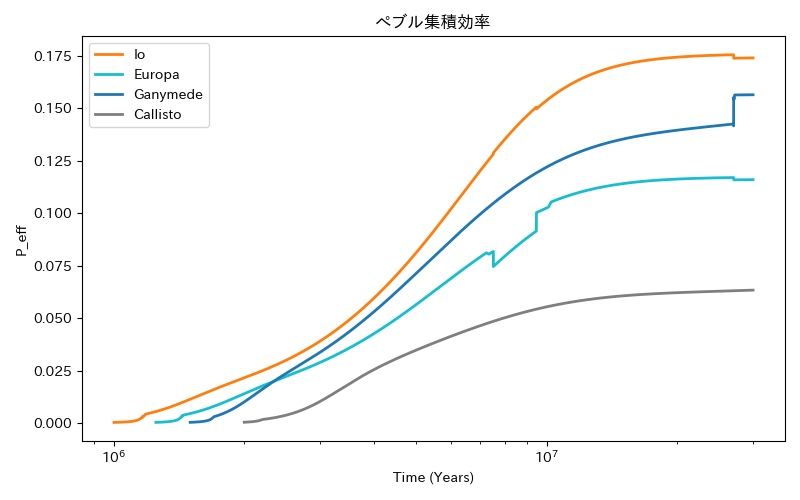
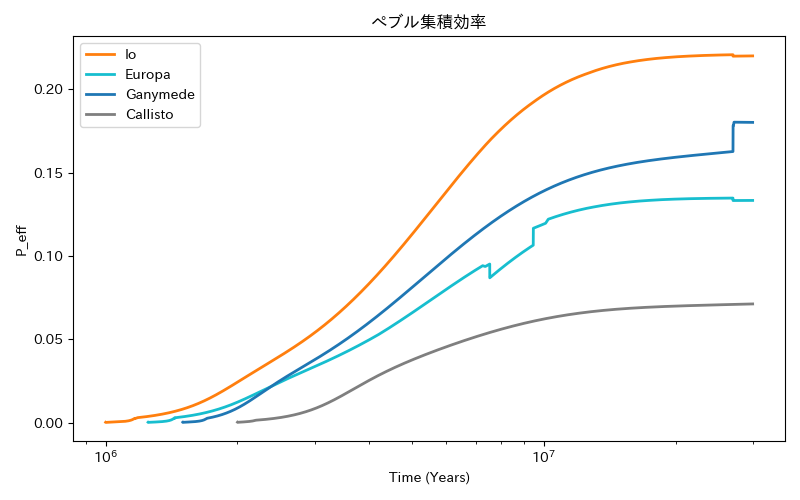
ぺブルのストークス数の式を近似式から微小軌道での半径増加分を利用した

diff --git a/gallilean_central_flax.py b/gallilean_central_flax.py
@@ -28,6 +28,7 @@ L_sun_early = 0.70 * L_sun # 形成初期の太陽光度 (現在の75%)
 T_bg = (L_sun_early / (16.0 * np.pi * a_J**2 * sigma_sb))**0.25 # 太陽輻射による木星軌道付近の平衡温度 
 rho_ice = 1.4              # 氷の密度 (g/cm^3)
 rho_rock = 3.0             # 岩石の密度 (g/cm^3)
+rho_int= 1.0e-3                # ふわふわのダストの密度 (g/cm^3)
 
 # ==========================================
 # 事前準備：物理量を計算する関数群
@@ -216,58 +217,78 @@ def calculate_disk_mass(M_cp_kg, M_dot_g_kg_s, alpha, r_gg, L_cp):
     return mass_g / M_J
 
 
-# ぺブルのストークス数 (St_p) を計算する関数（破壊効果を追加）
-def calculate_st_p(p, q, M_dot_p, M_dot_g, alpha, T_d, M_cp_kg, r, eta):
-    # 0割り防止
-    if M_dot_g <= 0: return 1e-10
+# ---------------------------------------------------------
+# 【変更】ペブルのバトンパス方式に対応したストークス数計算関数
+# ---------------------------------------------------------
+def calculate_st_p_integrated_relay(M_cp_kg, M_dot_g_kg_s, alpha, r_gg, L_cp, local_M_dot_p, target_r, start_r, start_R_d, rho_int=0.1):
+    if M_dot_g_kg_s <= 1e-15 or local_M_dot_p <= 1e-15:
+        return 1e-10, start_R_d
 
-    # 1. 動径移動による限界 (Drift-limited)
-    M_cp_MJ = M_cp_kg / M_J
-    r_RJ = r / R_J
+    # 距離が近い（あるいは追い越している）場合は積分せずそのまま返す
+    if target_r >= start_r:
+        R_d = start_R_d
+    else:
+        # 衛星と衛星の間の短い距離だけを積分するので、ステップ数は 10 回
+        N_steps = 10 
+        r_grid = np.logspace(np.log10(start_r), np.log10(target_r), N_steps)
+        R_d = start_R_d
+        
+        for i in range(N_steps - 1):
+            r_curr = r_grid[i]
+            r_next = r_grid[i+1]
+            dr = r_next - r_curr
+            
+            p, q = calculate_p_q(M_cp_kg, M_dot_g_kg_s, r_curr, alpha, r_gg, L_cp)
+            T_d, Sigma_g = calculate_disk_structure(M_cp_kg, M_dot_g_kg_s, r_curr, alpha, r_gg, L_cp, q_guess=q)
+            if np.isnan(T_d): continue
+                
+            v_K = np.sqrt(G * M_cp_kg / r_curr)
+            Omega_K = v_K / r_curr
+            c_s = np.sqrt((k_B * T_d) / m_g)
+            H_g = c_s / Omega_K
+            eta, _ = calculate_eta(M_cp_kg, M_dot_g_kg_s, r_curr, alpha, r_gg, L_cp)
+            eta_safe = max(abs(eta), 1e-15)
+            
+            term_num = local_M_dot_p * (Sigma_g**0.25)
+            term_den = ( (2.0**(39.0/8.0)) * (np.pi**(13.0/8.0)) * (alpha**0.5) * 
+                         (rho_int**1.25) * (eta_safe**0.75) * v_K * (H_g**1.25) * (r_curr**0.75) )
+            F_r = term_num / term_den
+            
+            dR_d_54 = - (5.0 / 4.0) * F_r * dr
+            R_d_54_next = (R_d**1.25) + dR_d_54
+            
+            if R_d_54_next > 0:
+                R_d = R_d_54_next**(0.8)
 
-    coef = 0.23
-    term_p_q1 = (2.0 / (3.0 + 2.0 * p + q))**(4/5)
-    term_p_q2 = (abs(10.0 / (18.0 - 13.0 * q)))**(2/5)
-
-    M_dot_ratio = M_dot_p / M_dot_g
-    term_mdot = (M_dot_ratio / 0.003)**(2/5)
-    term_alpha = (alpha / 1e-4)**(1/5)
-    term_td = (T_d / 160.0)**(-2/5)
-    term_mcp = (M_cp_MJ / 1.0)**(2/5)
-    term_r = (r_RJ / 10.0)**(-2/5)
-
-    st_p_drift = coef * term_p_q1 * term_p_q2 * term_mdot * term_alpha * term_td * term_mcp * term_r
-
-    # 2. 衝突破壊による限界 (Fragmentation-limited) - 論文の式(14)
+    # --- ストークス数の計算 ---
+    p, q = calculate_p_q(M_cp_kg, M_dot_g_kg_s, target_r, alpha, r_gg, L_cp)
+    T_d, Sigma_g = calculate_disk_structure(M_cp_kg, M_dot_g_kg_s, target_r, alpha, r_gg, L_cp, q_guess=q)
+    v_K = np.sqrt(G * M_cp_kg / target_r)
+    Omega_K = v_K / target_r
     c_s = np.sqrt((k_B * T_d) / m_g)
-    Omega_K = np.sqrt(G * M_cp_kg / r**3)
-    eta_safe = max(abs(eta), 1e-15) # ゼロ割り回避
-
-    # --- 動的スノーラインの計算 ---
-    H_g_temp = c_s / Omega_K
-    Sigma_g_temp = (M_dot_g / Omega_K) / (3.0 * np.pi * alpha * c_s**2)
-    rho_g_temp = Sigma_g_temp / (np.sqrt(2.0 * np.pi) * H_g_temp)
-    P_gas_temp = rho_g_temp * c_s**2
+    H_g = c_s / Omega_K
+    eta, _ = calculate_eta(M_cp_kg, M_dot_g_kg_s, target_r, alpha, r_gg, L_cp)
+    eta_safe = max(abs(eta), 1e-15)
     
+    St_sq = (8.0 * np.sqrt(2.0 * np.pi) / 3.0) * (rho_int * H_g * R_d) / (Sigma_g * eta_safe * target_r)
+    st_p_drift = np.sqrt(max(St_sq, 1e-20))
+    
+    rho_g_temp = Sigma_g / (np.sqrt(2.0 * np.pi) * H_g)
+    P_gas_temp = rho_g_temp * c_s**2
     X_H2O = 1.7e-4
     P_H2O = max(X_H2O * P_gas_temp, 1e-20)
     T_snow = 6070.0 / (30.86 - np.log(P_H2O))
 
-    # スノーラインを境に限界衝突速度(v_cr)を変更
-    if T_d >= T_snow:
-        v_cr = 500.0   # 岩石ペブルの破壊速度 (cm/s)
-    else:
-        v_cr = 5000.0  # 氷ペブルの破壊速度 (cm/s)
-
+    v_cr = 500.0 if T_d >= T_snow else 5000.0
     term_a = -3.0 * alpha * c_s**2
-    term_b = np.sqrt(9.0 * alpha**2 * c_s**4 + 4.0 * eta_safe**2 * r**2 * Omega_K**2 * v_cr**2)
-    term_c = 2.0 * eta_safe**2 * r**2 * Omega_K**2
-
+    term_b = np.sqrt(9.0 * alpha**2 * c_s**4 + 4.0 * eta_safe**2 * target_r**2 * Omega_K**2 * v_cr**2)
+    term_c = 2.0 * eta_safe**2 * target_r**2 * Omega_K**2
     st_p_frag = (term_a + term_b) / term_c
 
-    # ドリフトと破壊のうち、より小さい（厳しい）制限を採用する
     st_p = min(st_p_drift, st_p_frag)
-    return st_p
+    
+    # ★ ストークス数と、次の衛星へ渡すための「育ったペブルの半径」の両方を返す
+    return st_p, R_d
 
 # 圧力勾配によるずれ（eta）を計算する関数
 def calculate_eta(M_cp_kg, M_dot_g_kg_s, r, alpha, r_gg, L_cp):
@@ -617,6 +638,10 @@ while t_year <= t_max_year:
     active_sats.sort(key=lambda s: s.r_orb, reverse=True)
     
     current_M_dot_p = M_dot_p_base
+
+    # ★ 追加: ペブルの初期状態（円盤外縁）をセット
+    current_pebble_r = 50.0 * R_J
+    current_pebble_Rd = 1e-2
     
     # --- ① 物理計算（外側から順番にペブルを横取りしていく） ---
     for sat in active_sats:
@@ -641,7 +666,17 @@ while t_year <= t_max_year:
        
         eta, H_g = calculate_eta(M_cp_kg, M_dot_g_kg_s, sat.r_orb, alpha, r_gg, L_cp)
         
-        st_p = calculate_st_p(p, q, local_M_dot_p, M_dot_g_kg_s, alpha, T_d, M_cp_kg, sat.r_orb, eta)
+        # ★ 修正: 前の場所(current_pebble_r)から自分の場所(sat.r_orb)までだけ計算してバトンを受け取る
+        st_p, new_pebble_Rd = calculate_st_p_integrated_relay(
+            M_cp_kg, M_dot_g_kg_s, alpha, r_gg, L_cp, local_M_dot_p,
+            target_r=sat.r_orb,
+            start_r=current_pebble_r, 
+            start_R_d=current_pebble_Rd,
+        )
+        
+        # ★ 追加: 次の内側の衛星のためにバトン（現在地とペブル半径）を更新
+        current_pebble_r = sat.r_orb
+        current_pebble_Rd = new_pebble_Rd
         
         # （...中略: H_p や P_eff などの計算...）
         H_p = H_g * (1.0 + (st_p / alpha) * (1.0 + 2.0 * st_p) / (1.0 + st_p))**(-0.5)
